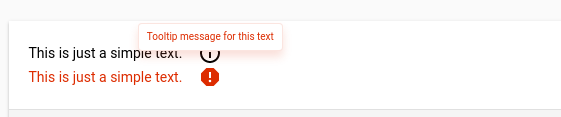
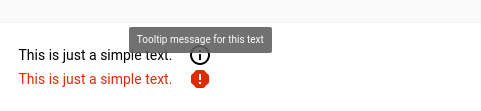
use slotted content to set tooltip assigned field and message

Changed region(s): [[0.0312, 0.2432, 0.5925, 0.8108]]

diff --git a/etools-info-tooltip.html b/etools-info-tooltip.html
@@ -34,36 +34,28 @@ You can use `importantWarning` property and `icon` property to make the field st
         display: none !important;
       }
       :host {
-        --default-tooltip-border-radius: {
-          -webkit-border-radius: 4px;
-          -moz-border-radius: 4px;
-          border-radius: 4px;
+        --tooltip-box-style: {
+          text-align: center;
+          line-height: 1.4;
         };
-        --default-tooltip-box-style: {
+        --light-tooltip-style: {
           -webkit-box-shadow: 0 6px 12px rgba(0, 0, 0, 0.175);
           -moz-box-shadow: 0 6px 12px rgba(0, 0, 0, 0.175);
           box-shadow: 0 6px 12px rgba(0, 0, 0, 0.175);
           border: 1px solid rgba(0, 0, 0, 0.15);
-          font-size: 14px;
         };
-        --important-warning-tooltip-box-style: {
-          -webkit-box-shadow: 0 6px 12px rgba(229, 79, 46, 0.175);
-          -moz-box-shadow: 0 6px 12px rgba(229, 79, 46, 0.175);
-          box-shadow: 0 6px 12px rgba(229, 79, 46, 0.175);
-          border: 1px solid rgba(229, 79, 46, 0.15);
-          font-size: 14px;
-        };
-
         @apply(--layout-horizontal);
         @apply(--layout-center);
+      }
 
+      :host([theme="light"]) {
         --paper-tooltip-background: var(--primary-background-color, #ffffff);
         --paper-tooltip-opacity: 1;
         --paper-tooltip-text-color: var(--primary-text-color, rgba(0, 0, 0, 0.87));
 
         --paper-tooltip: {
-          @apply(--default-tooltip-box-style);
-          @apply(--default-tooltip-border-radius);
+          @apply(--tooltip-box-style);
+          @apply(--light-tooltip-style);
         };
       }
 
@@ -74,18 +66,13 @@ You can use `importantWarning` property and `icon` property to make the field st
 
       :host([important-warning]) {
         color: var(--error-color, #e54f2e);
-        --paper-tooltip-text-color: var(--error-color, #e54f2e);
-        --paper-tooltip: {
-          @apply(--default-tooltip-border-radius);
-          @apply(--important-warning-tooltip-box-style);
-        }
       }
     </style>
     <!-- element assigned to this tooltip -->
-    <slot></slot>
+    <slot name="field"></slot>
     <iron-icon id="tooltip-trigger" icon="[[icon]]" hidden$="[[hideTooltip]]"></iron-icon>
-    <paper-tooltip for="tooltip-trigger" position="[[position]]" fit-to-visible-bounds>
-      [[message]]
+    <paper-tooltip for="tooltip-trigger" position="[[position]]">
+      <slot name="message"></slot>
     </paper-tooltip>
   </template>
 
@@ -99,10 +86,6 @@ You can use `importantWarning` property and `icon` property to make the field st
           type: String,
           value: 'top'
         },
-        message: {
-          type: String,
-          value: ''
-        },
         icon: {
           type: String,
           value: 'info-outline'
@@ -113,12 +96,16 @@ You can use `importantWarning` property and `icon` property to make the field st
           value: false,
           reflectToAttribute: true,
           observer: '_refreshStyles'
+        },
+        theme: {
+          type: String,
+          value: 'dark',
+          reflectToAttribute: true,
+          observer: '_refreshStyles'
         }
       },
-      _refreshStyles: function(newVal, oldVal) {
-        if (newVal !== oldVal) {
-          this.updateStyles();
-        }
+      _refreshStyles: function() {
+        this.updateStyles();
       }
     });
   </script>

diff --git a/demo/index.html b/demo/index.html
@@ -23,34 +23,31 @@
   <body>
     <div class="vertical-section-container centered">
       <h3>Basic etools-info-tooltip demo</h3>
+
       <demo-snippet>
         <template>
-          <etools-info-tooltip message="Tooltip message for this button">
-            <paper-button raised>Button</paper-button>
+          <etools-info-tooltip theme="light">
+            <paper-input slot="field" label="Form input" placeholder="Enter text here..."></paper-input>
+            <span slot="message">Tooltip message for this input</span>
+          </etools-info-tooltip>
+
+          <etools-info-tooltip icon="report-problem" important-warning>
+            <paper-input slot="field" label="Form input" placeholder="Enter text here..."></paper-input>
+            <span slot="message">Tooltip message for this input</span>
           </etools-info-tooltip>
         </template>
       </demo-snippet>
 
       <demo-snippet>
         <template>
-          <etools-info-tooltip message="Tooltip message for this input">
-            <paper-input label="Form input" placeholder="Enter text here..."></paper-input>
+          <etools-info-tooltip theme="light">
+            <span slot="field">This is just a simple text.</span>
+            <span slot="message">Tooltip message for this text</span>
           </etools-info-tooltip>
 
-          <etools-info-tooltip message="Tooltip message for this input" icon="report-problem" important-warning>
-            <paper-input label="Form input" placeholder="Enter text here..."></paper-input>
-          </etools-info-tooltip>
-        </template>
-      </demo-snippet>
-
-      <demo-snippet>
-        <template>
-          <etools-info-tooltip message="Tooltip message for this text">
-            <span>This is just a simple text.</span>
-          </etools-info-tooltip>
-
-          <etools-info-tooltip message="Tooltip message for this text" icon="report" important-warning>
-            <span>This is just a simple text.</span>
+          <etools-info-tooltip icon="report" important-warning>
+            <span slot="field">This is just a simple text.</span>
+            <span slot="message">Tooltip message <br>for this text</span>
           </etools-info-tooltip>
         </template>
       </demo-snippet>

diff --git a/README.md b/README.md
@@ -10,27 +10,32 @@ an icon is used to trigger tooltip open.
 
 ## Usage
 ```html
-<etools-info-tooltip message="Tooltip message for this input">
-  <paper-input label="Form input" placeholder="Enter text here..."></paper-input>
+<etools-info-tooltip theme="light">
+  <paper-input slot="field" label="Form input" placeholder="Enter text here..."></paper-input>
+  <span slot="message">Tooltip message for this input</span>
 </etools-info-tooltip>
 
-<etools-info-tooltip message="Tooltip message for this input" icon="report-problem" important-warning>
-  <paper-input label="Form input" placeholder="Enter text here..."></paper-input>
+<etools-info-tooltip icon="report-problem" important-warning>
+  <paper-input slot="field" label="Form input" placeholder="Enter text here..."></paper-input>
+  <span slot="message">Tooltip message for this input</span>
 </etools-info-tooltip>
 
-<etools-info-tooltip message="Tooltip message for this text">
-  <span>This is just a simple text.</span>
+<etools-info-tooltip theme="light">
+  <span slot="field">This is just a simple text.</span>
+  <span slot="message">Tooltip message for this text</span>
 </etools-info-tooltip>
 
-<etools-info-tooltip message="Tooltip message for this text" icon="report" important-warning>
-  <span>This is just a simple text.</span>
+<etools-info-tooltip icon="report" important-warning>
+  <span slot="field">This is just a simple text.</span>
+  <span slot="message">Tooltip message <br>for this text</span>
 </etools-info-tooltip>
 ```
 
 Properties:
 * icon - String, default: `info-outline`, only default set of icons can be used
-* message - String
-* position - String, Default: `top`
+* position - String, default: `top`
+* importantWarning - Boolean, default: `false`
+* theme - String, default: `dark` (only `dark` and `light` allowed)
 
 You can use `importantWarning` property and `icon` property to make the field style look like a warning
 (using `--error-color` var) on the UI.
